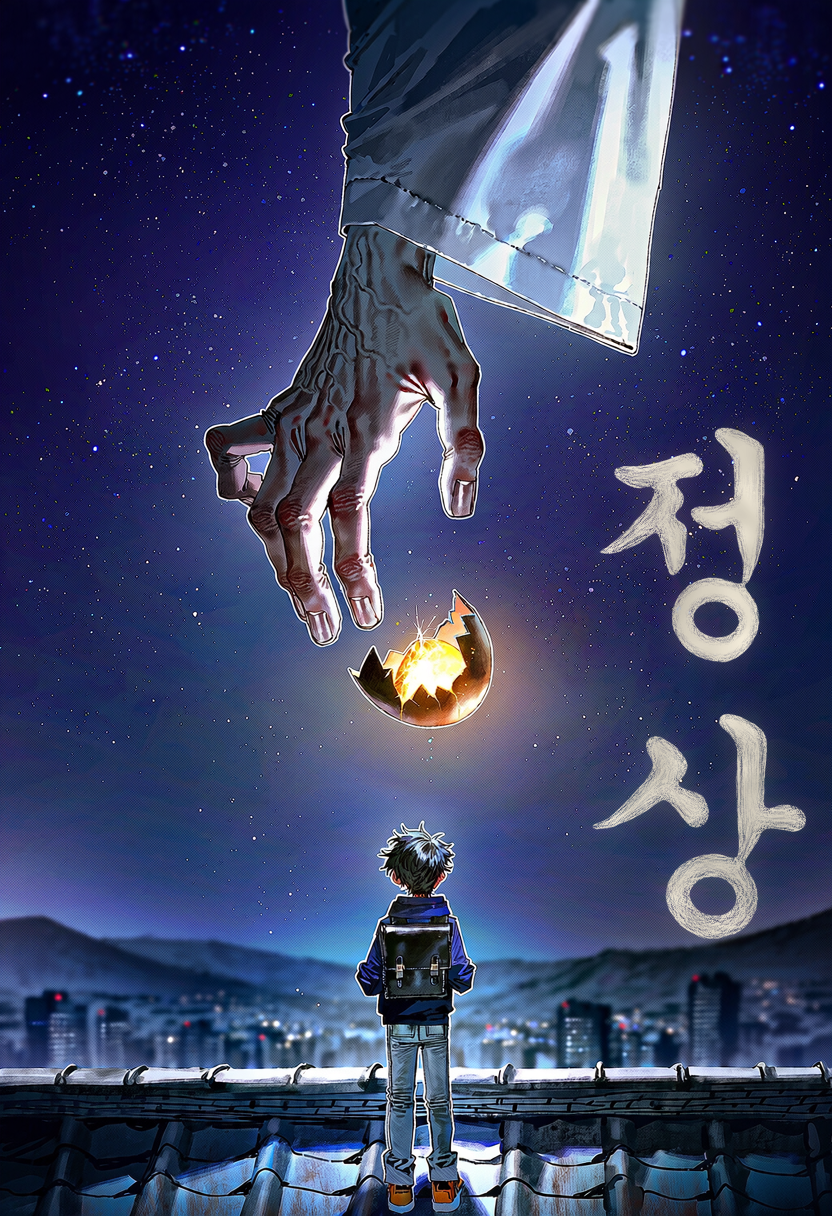
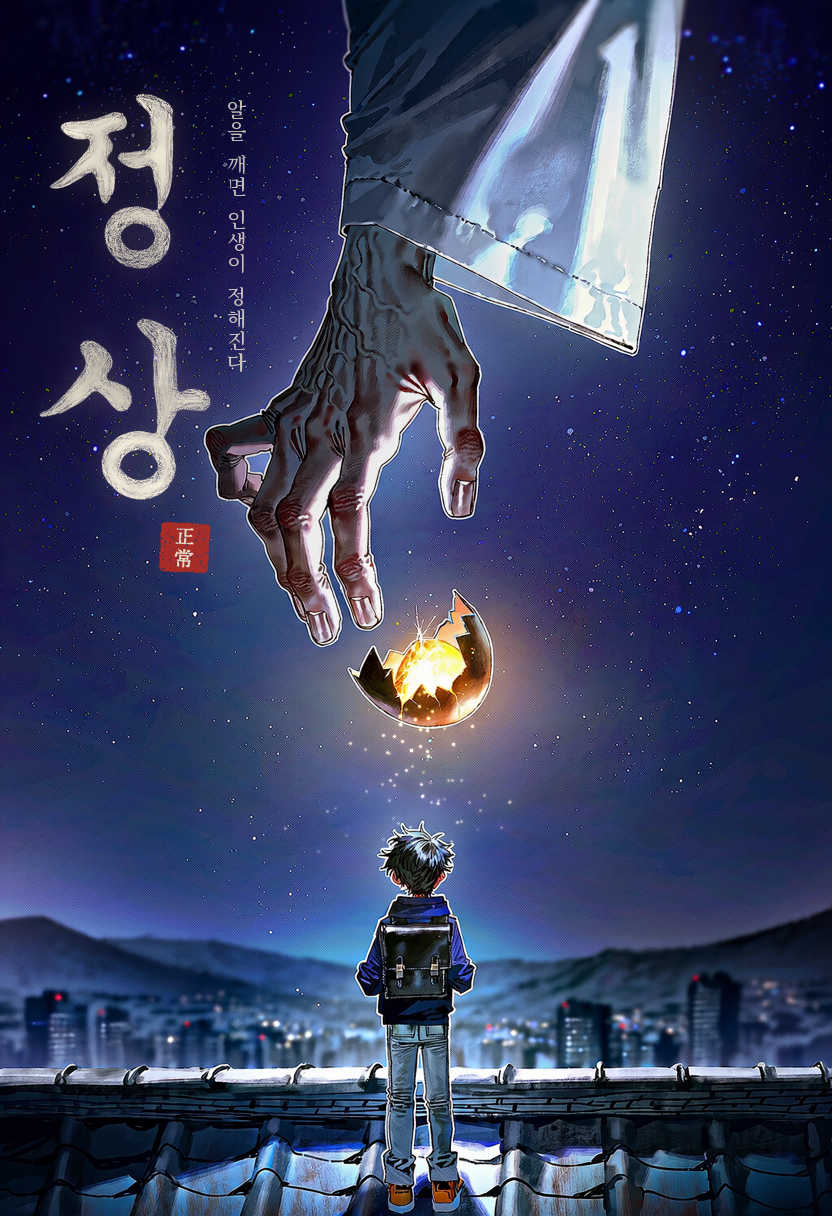
썸네일 레이아웃: 제목 왼쪽 위로 + 세로 부제 + 낙관(正常) + 알에서 떨어지는 금빛 가루

diff --git a/art/thumb_layout.py b/art/thumb_layout.py
@@ -1,0 +1,146 @@
+"""썸네일 최종 레이아웃: 세로 붓글씨 제목 + 세로 부제 + 낙관(正常) + 알에서 떨어지는 금빛 가루.
+
+  python art/thumb_layout.py [입력] [출력]     (기본: nai/thumbnail.png → nai/thumbnail_title.png)
+
+배치는 nai/thumbnail.png(④ 삼신의 손, seed 3765288516) 구도에 맞춘 것이다.
+  - 오른쪽 위에 소매·손이 무겁게 있어 제목 덩어리를 왼쪽 위에 두어 대각으로 균형을 맞춘다.
+  - 제목 아래 낙관은 '정상 판정' 도장 역할, 부제는 제목 오른쪽에 한 줄로 붙인다.
+  - 금빛 가루는 깨진 알에서 아이 쪽으로만 흩뿌려 알→아이 흐름을 이어 준다.
+"""
+import sys
+from pathlib import Path
+
+import numpy as np
+from PIL import Image, ImageDraw, ImageFont
+from scipy import ndimage as ndi
+
+sys.path.insert(0, str(Path(__file__).parent))
+from title_brush import GLOW, INK, composite, paste_layer, render
+
+ROOT = Path(__file__).resolve().parent.parent
+SEAL_RED = np.array([176, 44, 36], np.float32)
+PAPER = np.array([243, 230, 207], np.float32)
+
+# 구도에 맞춘 자리 (원본 832×1216 기준 비율)
+TITLE = dict(text="정상", cell=0.165, cx=0.148, top=0.045)
+TAGLINE = "알을 깨면 인생이 정해진다"
+EGG = (0.50, 0.565)   # 깨진 알 중심
+BOY = (0.50, 0.70)    # 아이 머리 위
+
+
+def vertical_text(text, size, color, alpha=0.8, weight="Medium"):
+    """한 글자씩 아래로 쌓은 세로 글. 띄어쓰기는 반 칸."""
+    f = ImageFont.truetype("C:/Windows/Fonts/NotoSerifKR-VF.ttf", size)
+    try:
+        f.set_variation_by_name(weight)
+    except Exception:
+        pass
+    step = int(size * 1.1)
+    h = sum(step // 2 if c == " " else step for c in text)
+    im = Image.new("L", (int(size * 1.4), h + size), 0)
+    d = ImageDraw.Draw(im)
+    y = 0
+    for c in text:
+        if c == " ":
+            y += step // 2
+            continue
+        d.text((im.width / 2, y + size / 2), c, font=f, fill=255, anchor="mm")
+        y += step
+    return np.asarray(im, np.float32) / 255 * alpha, color
+
+
+def seal(size, rng, text="正常"):
+    """낙관: 붉은 인주 사각형에 글자를 종이색으로. 가장자리·인주 얼룩을 거칠게."""
+    S = size * 4
+    m = Image.new("L", (S, S), 0)
+    pad = int(S * 0.06)
+    ImageDraw.Draw(m).rounded_rectangle([pad, pad, S - pad, S - pad], radius=int(S * 0.06), fill=255)
+    t = Image.new("L", (S, S), 0)
+    f = ImageFont.truetype("C:/Windows/Fonts/batang.ttc", int(S * 0.36), index=2)
+    td = ImageDraw.Draw(t)
+    td.text((S / 2, S * 0.29), text[0], font=f, fill=255, anchor="mm")
+    td.text((S / 2, S * 0.70), text[1], font=f, fill=255, anchor="mm")
+    t = Image.fromarray((ndi.grey_dilation(np.asarray(t), size=5)))  # 획을 도장처럼 굵게
+    a = np.asarray(m, np.float32) / 255
+    tx = np.asarray(t, np.float32) / 255
+    n = ndi.gaussian_filter(rng.standard_normal((S, S)).astype(np.float32), 6)
+    n /= n.std() + 1e-6
+    edge = ndi.gaussian_filter(a, 4) + 0.12 * n
+    a = np.clip((edge - 0.5) * 8 + 0.5, 0, 1)
+    speck = ndi.gaussian_filter(rng.standard_normal((S, S)).astype(np.float32), 2.5)
+    a *= np.clip(1.25 - (speck / speck.std() > 1.6) * 1.0, 0, 1) * 0.95  # 인주가 덜 묻은 점
+    out = Image.fromarray((a * 255).astype(np.uint8)).rotate(-3, resample=Image.BICUBIC).resize((size, size), Image.LANCZOS)
+    txo = Image.fromarray((tx * 255).astype(np.uint8)).rotate(-3, resample=Image.BICUBIC).resize((size, size), Image.LANCZOS)
+    return np.asarray(out, np.float32) / 255, np.asarray(txo, np.float32) / 255
+
+
+def gold_dust(H, W, rng, n=70):
+    """깨진 알에서 아이 쪽으로 떨어지는 금빛 가루(가산 합성용 밝기 맵)."""
+    m = np.zeros((H, W), np.float32)
+    ex, ey = EGG[0] * W, EGG[1] * H
+    bx, by = BOY[0] * W, BOY[1] * H
+    for _ in range(n):
+        t = rng.random() ** 0.8                     # 알 가까이에 더 많이
+        x = ex + (bx - ex) * t + rng.normal(0, 10 + 55 * t)
+        y = ey + (by - ey) * t + rng.normal(0, 8)
+        r = rng.uniform(0.8, 2.2) * (1.2 - 0.5 * t)
+        b = rng.uniform(0.5, 1.0) * (1.0 - 0.6 * t)
+        yi, xi = int(y), int(x)
+        if 0 <= yi < H and 0 <= xi < W:
+            m[yi, xi] += b * r * 6
+    core = ndi.gaussian_filter(m, 1.0)
+    halo = ndi.gaussian_filter(m, 5.0) * 0.8
+    return core + halo
+
+
+def main(src, dst):
+    rng = np.random.default_rng(11)
+    base = Image.open(src).convert("RGB")
+    W, H = base.size
+    img = np.asarray(base, np.float32)
+
+    # 1) 제목 자리를 아주 살짝 눌러 앉힌다(왼쪽 위 비네트)
+    yy, xx = np.mgrid[0:H, 0:W].astype(np.float32)
+    v = np.exp(-(((xx - 0.15 * W) / (0.32 * W)) ** 2 + ((yy - 0.2 * H) / (0.26 * H)) ** 2))
+    img *= (1 - 0.22 * v)[..., None]
+
+    # 2) 금빛 가루
+    dust = gold_dust(H, W, rng)
+    img = img + GLOW * np.clip(dust, 0, 1.5)[..., None] * 0.9
+
+    # 3) 제목
+    cell = int(TITLE["cell"] * H)
+    al, tn = render(TITLE["text"], cell, rng)
+    tx0 = int(TITLE["cx"] * W - al.shape[1] / 2)
+    ty0 = int(TITLE["top"] * H)
+    img = composite(img, al, tn, tx0, ty0)
+    rows = np.where(al.max(axis=1) > 0.3)[0]
+    cols = np.where(al.max(axis=0) > 0.3)[0]
+    t_top, t_bot = ty0 + rows[0], ty0 + rows[-1]
+    t_left, t_right = tx0 + cols[0], tx0 + cols[-1]
+
+    # 4) 부제: 제목 오른쪽, 제목 첫 획 높이에 맞춰. 엄지(x≈205, y≈420~)에 닿지 않게 짧게 끝낸다
+    va, _ = vertical_text(TAGLINE, int(H * 0.0165), INK, alpha=0.78)
+    sx0 = t_right + int(W * 0.018)
+    sy0 = t_top + int(H * 0.004)
+    assert sy0 + va.shape[0] - int(H * 0.0165) < 0.335 * H, "부제가 손에 닿음"
+    fa = paste_layer(H, W, va, sx0, sy0)
+    img = img * (1 - fa[..., None]) + INK * fa[..., None]
+
+    # 5) 낙관: 제목 아래, 제목 오른쪽 끝에 맞춤
+    s = int(H * 0.046)
+    sa, st = seal(s, rng)
+    px0 = t_right - s + int(W * 0.004)
+    py0 = t_bot + int(H * 0.018)
+    fa = paste_layer(H, W, sa, px0, py0)
+    ft = paste_layer(H, W, st, px0, py0)
+    col = SEAL_RED[None, None, :] * (1 - ft[..., None]) + PAPER * ft[..., None]
+    img = img * (1 - fa[..., None]) + col * fa[..., None]
+
+    Image.fromarray(np.clip(img, 0, 255).astype(np.uint8)).save(dst)
+    print(dst, f"제목 {t_left}-{t_right} x {t_top}-{t_bot}, 낙관 y {py0}-{py0 + s}")
+
+
+if __name__ == "__main__":
+    a = sys.argv[1:]
+    main(a[0] if a else ROOT / "nai/thumbnail.png", a[1] if len(a) > 1 else ROOT / "nai/thumbnail_title.png")

diff --git a/art/title_brush.py b/art/title_brush.py
@@ -94,31 +94,38 @@ def main():
 
     base = Image.open(a.src).convert("RGB")
     W, H = base.size
-    cell = int(a.size * H * SS)
-    mask = glyph_mask(a.text, cell, rng)
-    alpha, tone = brush(mask, rng)
+    al, tn = render(a.text, int(a.size * H), rng)
+    img = composite(np.asarray(base, np.float32), al, tn, int(a.cx * W - al.shape[1] / 2), int(a.top * H))
+    Image.fromarray(np.clip(img, 0, 255).astype(np.uint8)).save(a.dst)
+    print(a.dst)
 
-    # 원래 크기로 내리기
+
+def render(text, cell_px, rng):
+    """세로 붓글씨 → (알파, 먹 농담) 원래 해상도 배열."""
+    mask = glyph_mask(text, cell_px * SS, rng)
+    alpha, tone = brush(mask, rng)
     sm = (int(mask.shape[1] / SS), int(mask.shape[0] / SS))
     al = np.asarray(Image.fromarray((alpha * 255).astype(np.uint8)).resize(sm, Image.LANCZOS), np.float32) / 255
     tn = np.asarray(Image.fromarray((tone * 200).astype(np.uint8)).resize(sm, Image.BILINEAR), np.float32) / 200
+    return al, tn
 
-    x0 = int(a.cx * W - sm[0] / 2)
-    y0 = int(a.top * H)
-    full_a = np.zeros((H, W), np.float32)
-    full_t = np.ones((H, W), np.float32)
-    ys, xs = slice(max(y0, 0), min(y0 + sm[1], H)), slice(max(x0, 0), min(x0 + sm[0], W))
-    full_a[ys, xs] = al[ys.start - y0:ys.stop - y0, xs.start - x0:xs.stop - x0]
-    full_t[ys, xs] = tn[ys.start - y0:ys.stop - y0, xs.start - x0:xs.stop - x0]
 
-    img = np.asarray(base, np.float32)
-    # 은은한 금빛 번짐(글자 뒤) → 글자
-    glow = ndi.gaussian_filter(full_a, 14)[..., None] * 0.55
+def paste_layer(H, W, layer, x0, y0, fill=0.0):
+    """작은 배열을 (x0, y0)에 놓은 전체 크기 배열. 화면 밖은 잘린다."""
+    full = np.full((H, W), fill, np.float32)
+    h, w = layer.shape
+    ys, xs = slice(max(y0, 0), min(y0 + h, H)), slice(max(x0, 0), min(x0 + w, W))
+    full[ys, xs] = layer[ys.start - y0:ys.stop - y0, xs.start - x0:xs.stop - x0]
+    return full
+
+
+def composite(img, al, tn, x0, y0, ink=INK, glow_amt=1.0):
+    """금빛 번짐을 깔고 그 위에 먹(미색)을 얹는다."""
+    H, W = img.shape[:2]
+    fa, ft = paste_layer(H, W, al, x0, y0), paste_layer(H, W, tn, x0, y0, 1.0)
+    glow = ndi.gaussian_filter(fa, 14)[..., None] * 0.55 * glow_amt
     img = img + (GLOW - img) * np.clip(glow * 0.6, 0, 1) * 0.5 + GLOW * glow * 0.12
-    ink = INK * full_t[..., None]
-    img = img * (1 - full_a[..., None]) + ink * full_a[..., None]
-    Image.fromarray(np.clip(img, 0, 255).astype(np.uint8)).save(a.dst)
-    print(a.dst)
+    return img * (1 - fa[..., None]) + ink * ft[..., None] * fa[..., None]
 
 
 if __name__ == "__main__":
